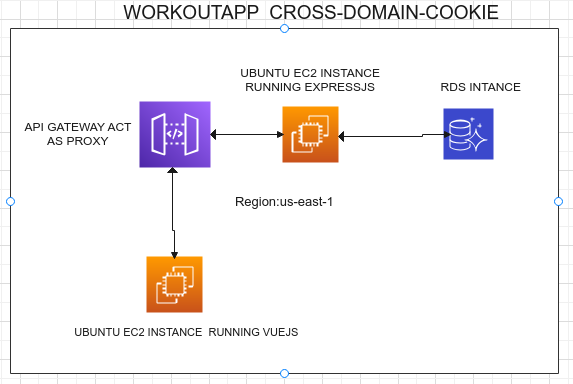
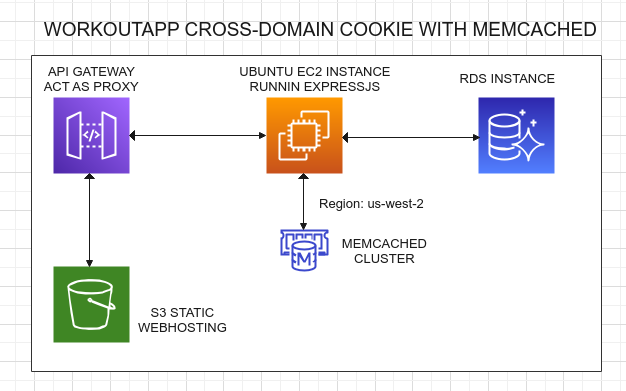
commit to memcached branch

diff --git a/backend/controllers/authControllers.js b/backend/controllers/authControllers.js
@@ -91,12 +91,7 @@ module.exports.signinUser = async(req, res, next) => {
             // generate refreshtoken here
             const refreshToken = jwt.sign({username:username}, refreshTokenSecret, {expiresIn: '1d'})  // crypto.randomBytes(32).toString('hex')
             const accesToken = jwt.sign({username:username}, accessTokenSecret, {expiresIn:'300sec'})
-            // if(userRefreshTokenList.hasOwnProperty(username)){
-            //     userRefreshTokenList[username].push(refreshToken)
-            // }else{
-            //     userRefreshTokenList[username] = []
-            //     userRefreshTokenList[username].push(refreshToken)
-            // }
+           
             const getSaveTokens = await memcached.get(username)
             if(!getSaveTokens || getSaveTokens === 'undefined'){
                 const tokens = {}
@@ -118,14 +113,7 @@ module.exports.signinUser = async(req, res, next) => {
                 res.status(200).json(response)
             }
            
-            // sameSite:true,secure:true
-            // res.cookie('refreshToken', refreshToken, {secure:true,sameSite:'None',httpOnly:true, expires: new Date(Date.now() +(1000*60*60))})
-            // const response = {message:'User has successfully signed in', signin:true,username:user.username, token:accesToken,expires:Date.now()+ (60000*5)}
-            
-            // console.log(userRefreshTokenList.length)
-            // console.log(userRefreshTokenList)
-            // console.log(res)
-            // res.status(200).json(response)
+          
             
         }catch(error){
             console.log(error)
@@ -156,11 +144,6 @@ module.exports.signoutUser = async(req, res, next) => {
          res.status(401).json({message:'Error in Signing out', token:'' })
        }
        
-      
-        // userRefreshTokenList[req.username] = userRefreshTokenList[req.username].filter(rf => rf != req.refreshToken) 
-        // res.clearCookie(req.refreshToken)
-        // res.cookie('deleteToken', '', {sameSite:true,secure:true,httpOnly:true, expires: 500})
-        // res.json({message:'User Loggedout', token:'' })
     }
     
 }
